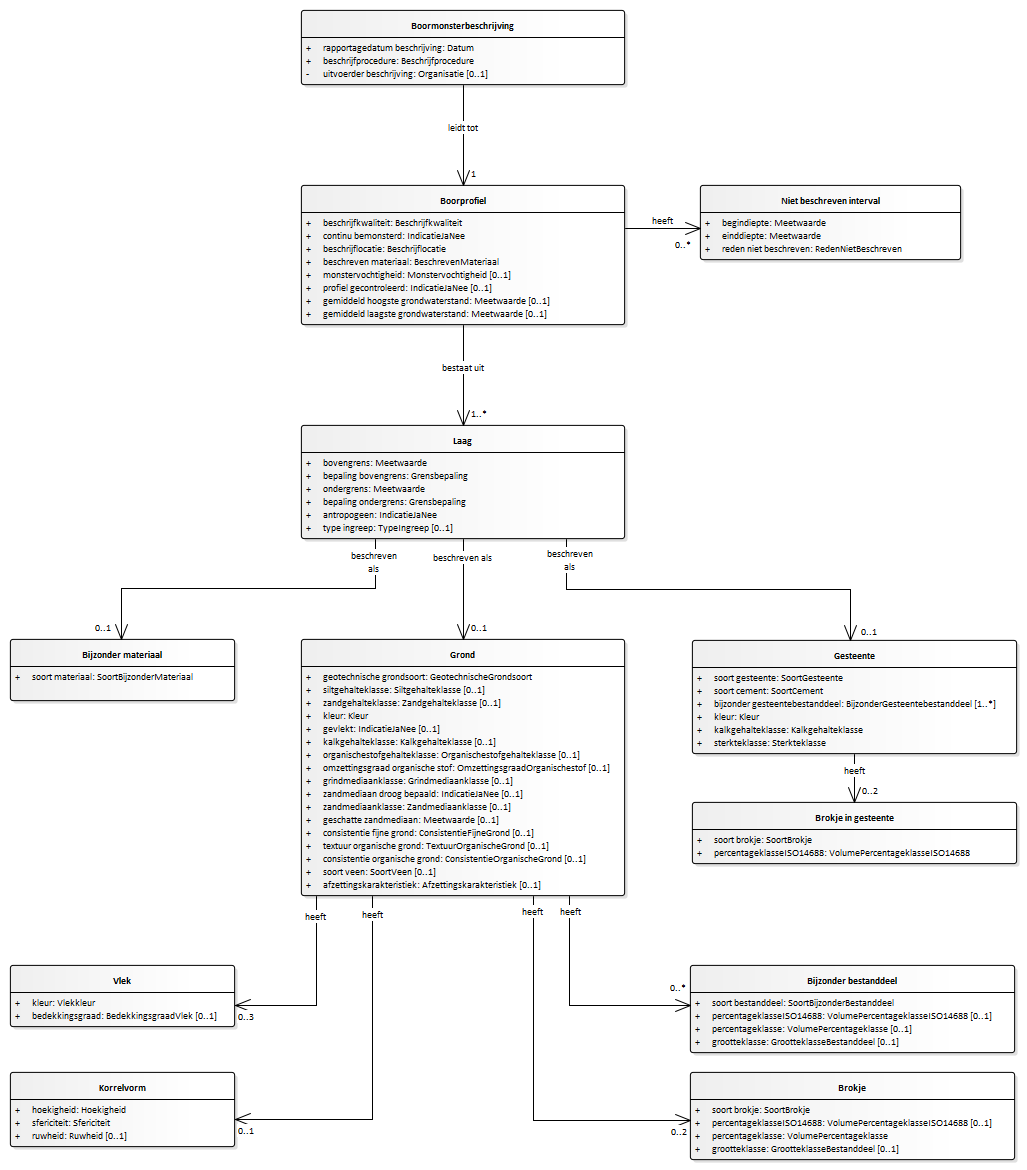
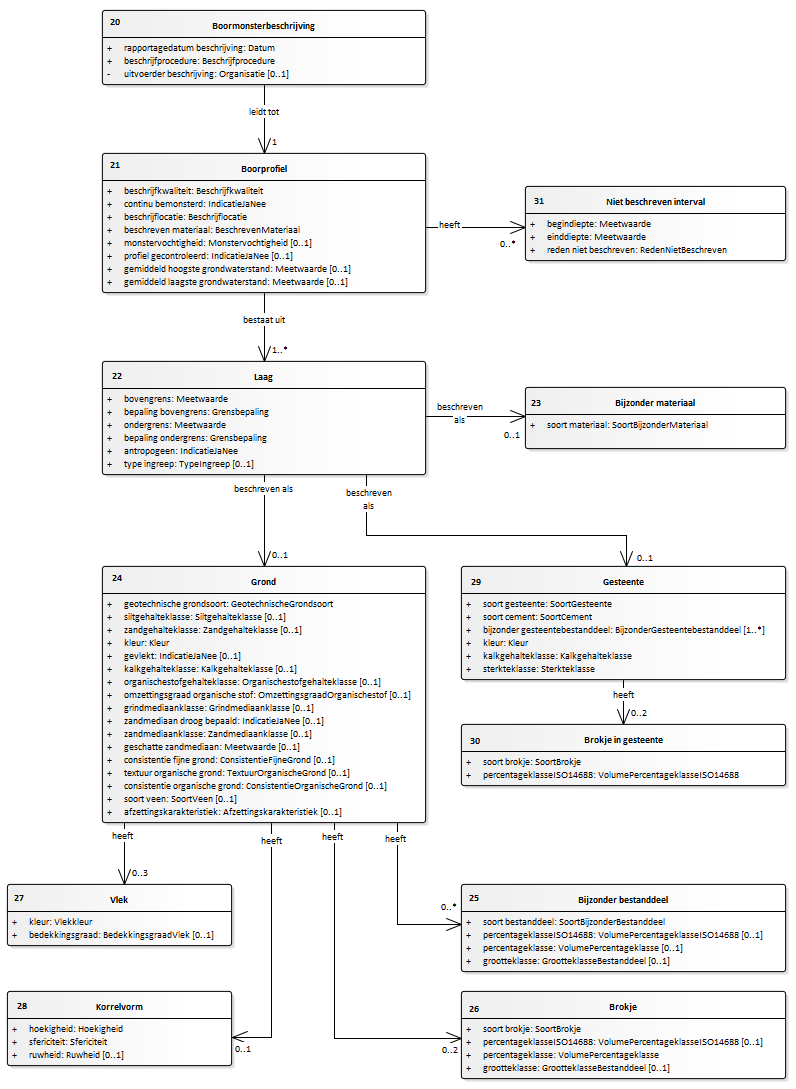
Conceptualmodel-ToegepastgeologischbooronderzoekBHR-AGconceptueel-0.1-1-20200910-20201006-175610

diff --git a/data/BHR-AG-cat.msword.html b/data/BHR-AG-cat.msword.html
@@ -15,7 +15,7 @@
    <body>
       <p>Conceptual model/Toegepast geologisch booronderzoek (BHR-AG) conceptueel/20200910</p>
       <p>Imvertor: 1.61.3</p>
-      <p>Model release: Conceptualmodel-ToegepastgeologischbooronderzoekBHR-AGconceptueel-0.1-1-20200910-20201006-171113</p>
+      <p>Model release: Conceptualmodel-ToegepastgeologischbooronderzoekBHR-AGconceptueel-0.1-1-20200910-20201006-175610</p>
       <hr>
       <section>
          <h1>Artikel 1 Definitie van registratieobject, entiteiten en attributen</h1>
@@ -67,7 +67,7 @@
             <section id="">
                <div class="imageinfo overview"><img src="Images/EAID_223402C6_6322_4aba_8709_94671A3F0EA4.png" usemap="#imagemap-EAID_223402C6_6322_4aba_8709_94671A3F0EA4" alt="Diagram "><map name="imagemap-EAID_223402C6_6322_4aba_8709_94671A3F0EA4"><area shape="rect" alt="Kernopbrengst" coords="920,1215,1125,1303" href="#graph_EAID_1EC39998_E049_4f4e_A556_9CC713664B66"><area shape="rect" alt="Strooisellaag" coords="21,597,353,672" href="#graph_EAID_ECC1D9CE_D27B_483b_9A3D_F471137D71F1"><area shape="rect" alt="Gestandaardiseerde locatie" coords="782,266,1134,341" href="#graph_EAID_A914B861_8C05_4239_879B_2F3E91A3917C"><area shape="rect" alt="Registratiegeschiedenis" coords="10,10,364,202" href="#graph_EAID_739AAD42_75DB_4f57_AAA8_E44A1E9F56C7"><area shape="rect" alt="Tussentijdse gebeurtenis" coords="56,368,318,430" href="#graph_EAID_2C46F586_D6CC_4872_A421_A9496F61E8F9"><area shape="rect" alt="Rapportagegeschiedenis" coords="56,261,318,323" href="#graph_EAID_CED3623F_09BE_4a99_95ED_940EB75850D2"><area shape="rect" alt="Boorsnelheid" coords="862,704,1125,766" href="#graph_EAID_1CB0936F_94C8_4cfd_939F_06B344530E5D"><area shape="rect" alt="Verontreinigd interval" coords="506,873,729,935" href="#graph_EAID_5DA10DC9_4546_4ef1_8AFD_DCA97C43EAEA"><area shape="rect" alt="Bemonsteringsapparaat" coords="862,994,1086,1173" href="#graph_EAID_39D147F9_B247_4e8e_9490_FD711A3A40D4"><area shape="rect" alt="Afgewerkt interval" coords="416,991,729,1131" href="#graph_EAID_D708726D_D9BD_48e2_B9E7_E30E34986E8D"><area shape="rect" alt="Bemonsterd interval" coords="862,790,1125,904" href="#graph_EAID_942B7F57_4285_46e2_866F_EDB4185826DB"><area shape="rect" alt="Geboord interval" coords="862,592,1125,680" href="#graph_EAID_4701F363_88BB_41b6_B361_392BA77EB93D"><area shape="rect" alt="Weggegraven laag" coords="862,493,1125,568" href="#graph_EAID_833E1A20_D927_46d1_8394_84DCDEEFA572"><area shape="rect" alt="Terreintoestand" coords="782,355,1134,469" href="#graph_EAID_D7BF7802_8248_4db2_920D_6A2516EFFB9B"><area shape="rect" alt="Boring" coords="416,493,729,802" href="#graph_EAID_39DA8E6A_0EF3_47fd_844E_6FE320BFA4C3"><area shape="rect" alt="Sliblaag" coords="21,471,353,559" href="#graph_EAID_304137CD_7F09_49ff_8E9B_BCCFE9E29B41"><area shape="rect" alt="Aangeleverde verticale positie" coords="782,125,1134,252" href="#graph_EAID_20F3A37D_7015_4e91_855F_5420C1F71B69"><area shape="rect" alt="Aangeleverde locatie" coords="781,10,1133,111" href="#graph_EAID_FCC60860_F24C_4fff_B77A_AF02BEEEC7FC"><area shape="rect" alt="Booronderzoek" coords="416,10,730,215" href="#graph_EAID_08444867_A549_4d70_91A3_AB6CAE5538BE"><area shape="rect" alt="Boormonsterbeschrijving" coords="57,726,319,783" href="#graph_EAID_48398FD1_5301_4bf7_8A18_186683D55ECC"></map><p><b>Domeinmodel toegepast geologisch booronderzoek - Algemeen deel</b></p>
                </div>
-               <div class="imageinfo overview"><img src="Images/EAID_2BEE77B3_B290_450f_B2C3_248D2CDF62D0.png" usemap="#imagemap-EAID_2BEE77B3_B290_450f_B2C3_248D2CDF62D0" alt="Diagram "><map name="imagemap-EAID_2BEE77B3_B290_450f_B2C3_248D2CDF62D0"><area shape="rect" alt="Brokje in gesteente" coords="692,802,1017,864" href="#graph_EAID_2B6D44AA_BE24_4922_8557_F72A39007338"><area shape="rect" alt="Korrelvorm" coords="10,1072,235,1147" href="#graph_EAID_521920A9_AD0F_48a8_9936_F2EB41048D48"><area shape="rect" alt="Gesteente" coords="692,640,1017,754" href="#graph_EAID_923F1D05_D446_4578_989D_BD4A31357565"><area shape="rect" alt="Vlek" coords="10,965,235,1027" href="#graph_EAID_5CBC68BC_887F_481b_919F_50E6DDBAA8C2"><area shape="rect" alt="Brokje" coords="690,1072,1015,1160" href="#graph_EAID_D926F001_75F7_427d_9A13_9B67062086F4"><area shape="rect" alt="Bijzonder bestanddeel" coords="690,965,1015,1053" href="#graph_EAID_3879AC64_BE06_4f16_8D2C_7A9036DEBFEA"><area shape="rect" alt="Bijzonder materiaal" coords="10,639,235,701" href="#graph_EAID_1372ED4A_302E_492a_965B_49C68209085C"><area shape="rect" alt="Niet beschreven interval" coords="700,185,961,260" href="#graph_EAID_5661F19B_4FF7_4bbf_BCE0_11489C377552"><area shape="rect" alt="Grond" coords="301,639,625,896" href="#graph_EAID_C8EE2C52_C5B2_420f_8A6B_5DC3D66481B1"><area shape="rect" alt="Laag" coords="301,425,625,539" href="#graph_EAID_20CDA08D_E15D_448d_BE07_575D49BAD77C"><area shape="rect" alt="Boormonsterbeschrijving" coords="301,10,625,85" href="#graph_EAID_48398FD1_5301_4bf7_8A18_186683D55ECC"><area shape="rect" alt="Boorprofiel" coords="301,185,625,325" href="#graph_EAID_E0BD3703_8FA5_483a_A6C2_8DF1B9DBE04C"></map><p><b>Domeinmodel toegepast geologisch booronderzoek - Boormonsterbeschrijving</b></p>
+               <div class="imageinfo overview"><img src="Images/EAID_2BEE77B3_B290_450f_B2C3_248D2CDF62D0.png" usemap="#imagemap-EAID_2BEE77B3_B290_450f_B2C3_248D2CDF62D0" alt="Diagram "><map name="imagemap-EAID_2BEE77B3_B290_450f_B2C3_248D2CDF62D0"><area shape="rect" alt="Brokje in gesteente" coords="461,724,786,786" href="#graph_EAID_2B6D44AA_BE24_4922_8557_F72A39007338"><area shape="rect" alt="Korrelvorm" coords="7,991,232,1066" href="#graph_EAID_521920A9_AD0F_48a8_9936_F2EB41048D48"><area shape="rect" alt="Gesteente" coords="461,566,786,680" href="#graph_EAID_923F1D05_D446_4578_989D_BD4A31357565"><area shape="rect" alt="Vlek" coords="7,884,232,946" href="#graph_EAID_5CBC68BC_887F_481b_919F_50E6DDBAA8C2"><area shape="rect" alt="Brokje" coords="461,991,786,1079" href="#graph_EAID_D926F001_75F7_427d_9A13_9B67062086F4"><area shape="rect" alt="Bijzonder bestanddeel" coords="461,884,786,972" href="#graph_EAID_3879AC64_BE06_4f16_8D2C_7A9036DEBFEA"><area shape="rect" alt="Bijzonder materiaal" coords="525,387,786,449" href="#graph_EAID_1372ED4A_302E_492a_965B_49C68209085C"><area shape="rect" alt="Niet beschreven interval" coords="525,186,786,261" href="#graph_EAID_5661F19B_4FF7_4bbf_BCE0_11489C377552"><area shape="rect" alt="Grond" coords="102,566,426,823" href="#graph_EAID_C8EE2C52_C5B2_420f_8A6B_5DC3D66481B1"><area shape="rect" alt="Laag" coords="102,361,426,475" href="#graph_EAID_20CDA08D_E15D_448d_BE07_575D49BAD77C"><area shape="rect" alt="Boormonsterbeschrijving" coords="102,10,426,85" href="#graph_EAID_48398FD1_5301_4bf7_8A18_186683D55ECC"><area shape="rect" alt="Boorprofiel" coords="102,153,426,293" href="#graph_EAID_E0BD3703_8FA5_483a_A6C2_8DF1B9DBE04C"></map><p><b>Domeinmodel toegepast geologisch booronderzoek - Boormonsterbeschrijving</b></p>
                </div>
             </section>
          </section>
